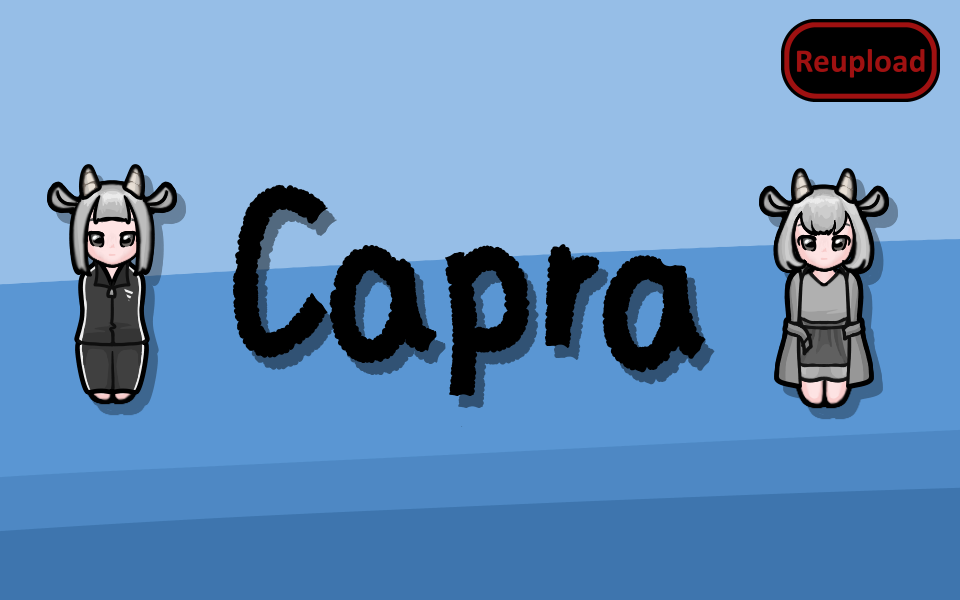
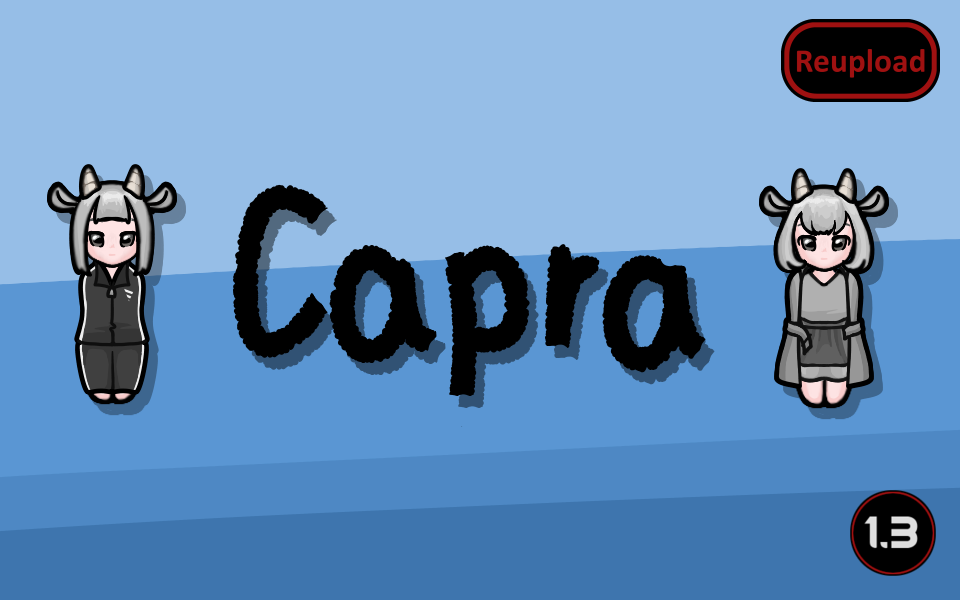
Last update, added end-of-life message

Changed region(s): [[0.875, 0.81, 1.0, 0.96]]

diff --git a/README.md b/README.md
@@ -7,7 +7,7 @@ https://steamcommunity.com/sharedfiles/filedetails/?id=2513690508
 
 - Fixed the vanilla overwrites
 
-![Image](https://i.imgur.com/pufA0kM.png)
+![Image](https://i.imgur.com/KFjAmff.png)
 
 	
 ![Image](https://i.imgur.com/Z4GOv8H.png)
@@ -39,10 +39,13 @@ Please discuss or comment on bug reports or feedback.
 
 -  See if the the error persists if you just have this mod and its requirements active.
 -  If not, try adding your other mods until it happens again.
--  Post your error-log using https://steamcommunity.com/workshop/filedetails/?id=818773962]HugsLib and command Ctrl+F12
+-  Post your error-log using https://steamcommunity.com/workshop/filedetails/?id=818773962]HugsLib or the standalone https://steamcommunity.com/sharedfiles/filedetails/?id=2873415404]Uploader and command Ctrl+F12
 -  For best support, please use the Discord-channel for error-reporting.
 -  Do not report errors by making a discussion-thread, I get no notification of that.
 -  If you have the solution for a problem, please post it to the GitHub repository.
+-  Use https://github.com/RimSort/RimSort/releases/latest]RimSort to sort your mods
 
 
+
+https://steamcommunity.com/sharedfiles/filedetails/changelog/2614607026]![Image](https://img.shields.io/github/v/release/emipa606/CapraRaceMod?label=latest%20version&style=plastic&color=9f1111&labelColor=black)
 
